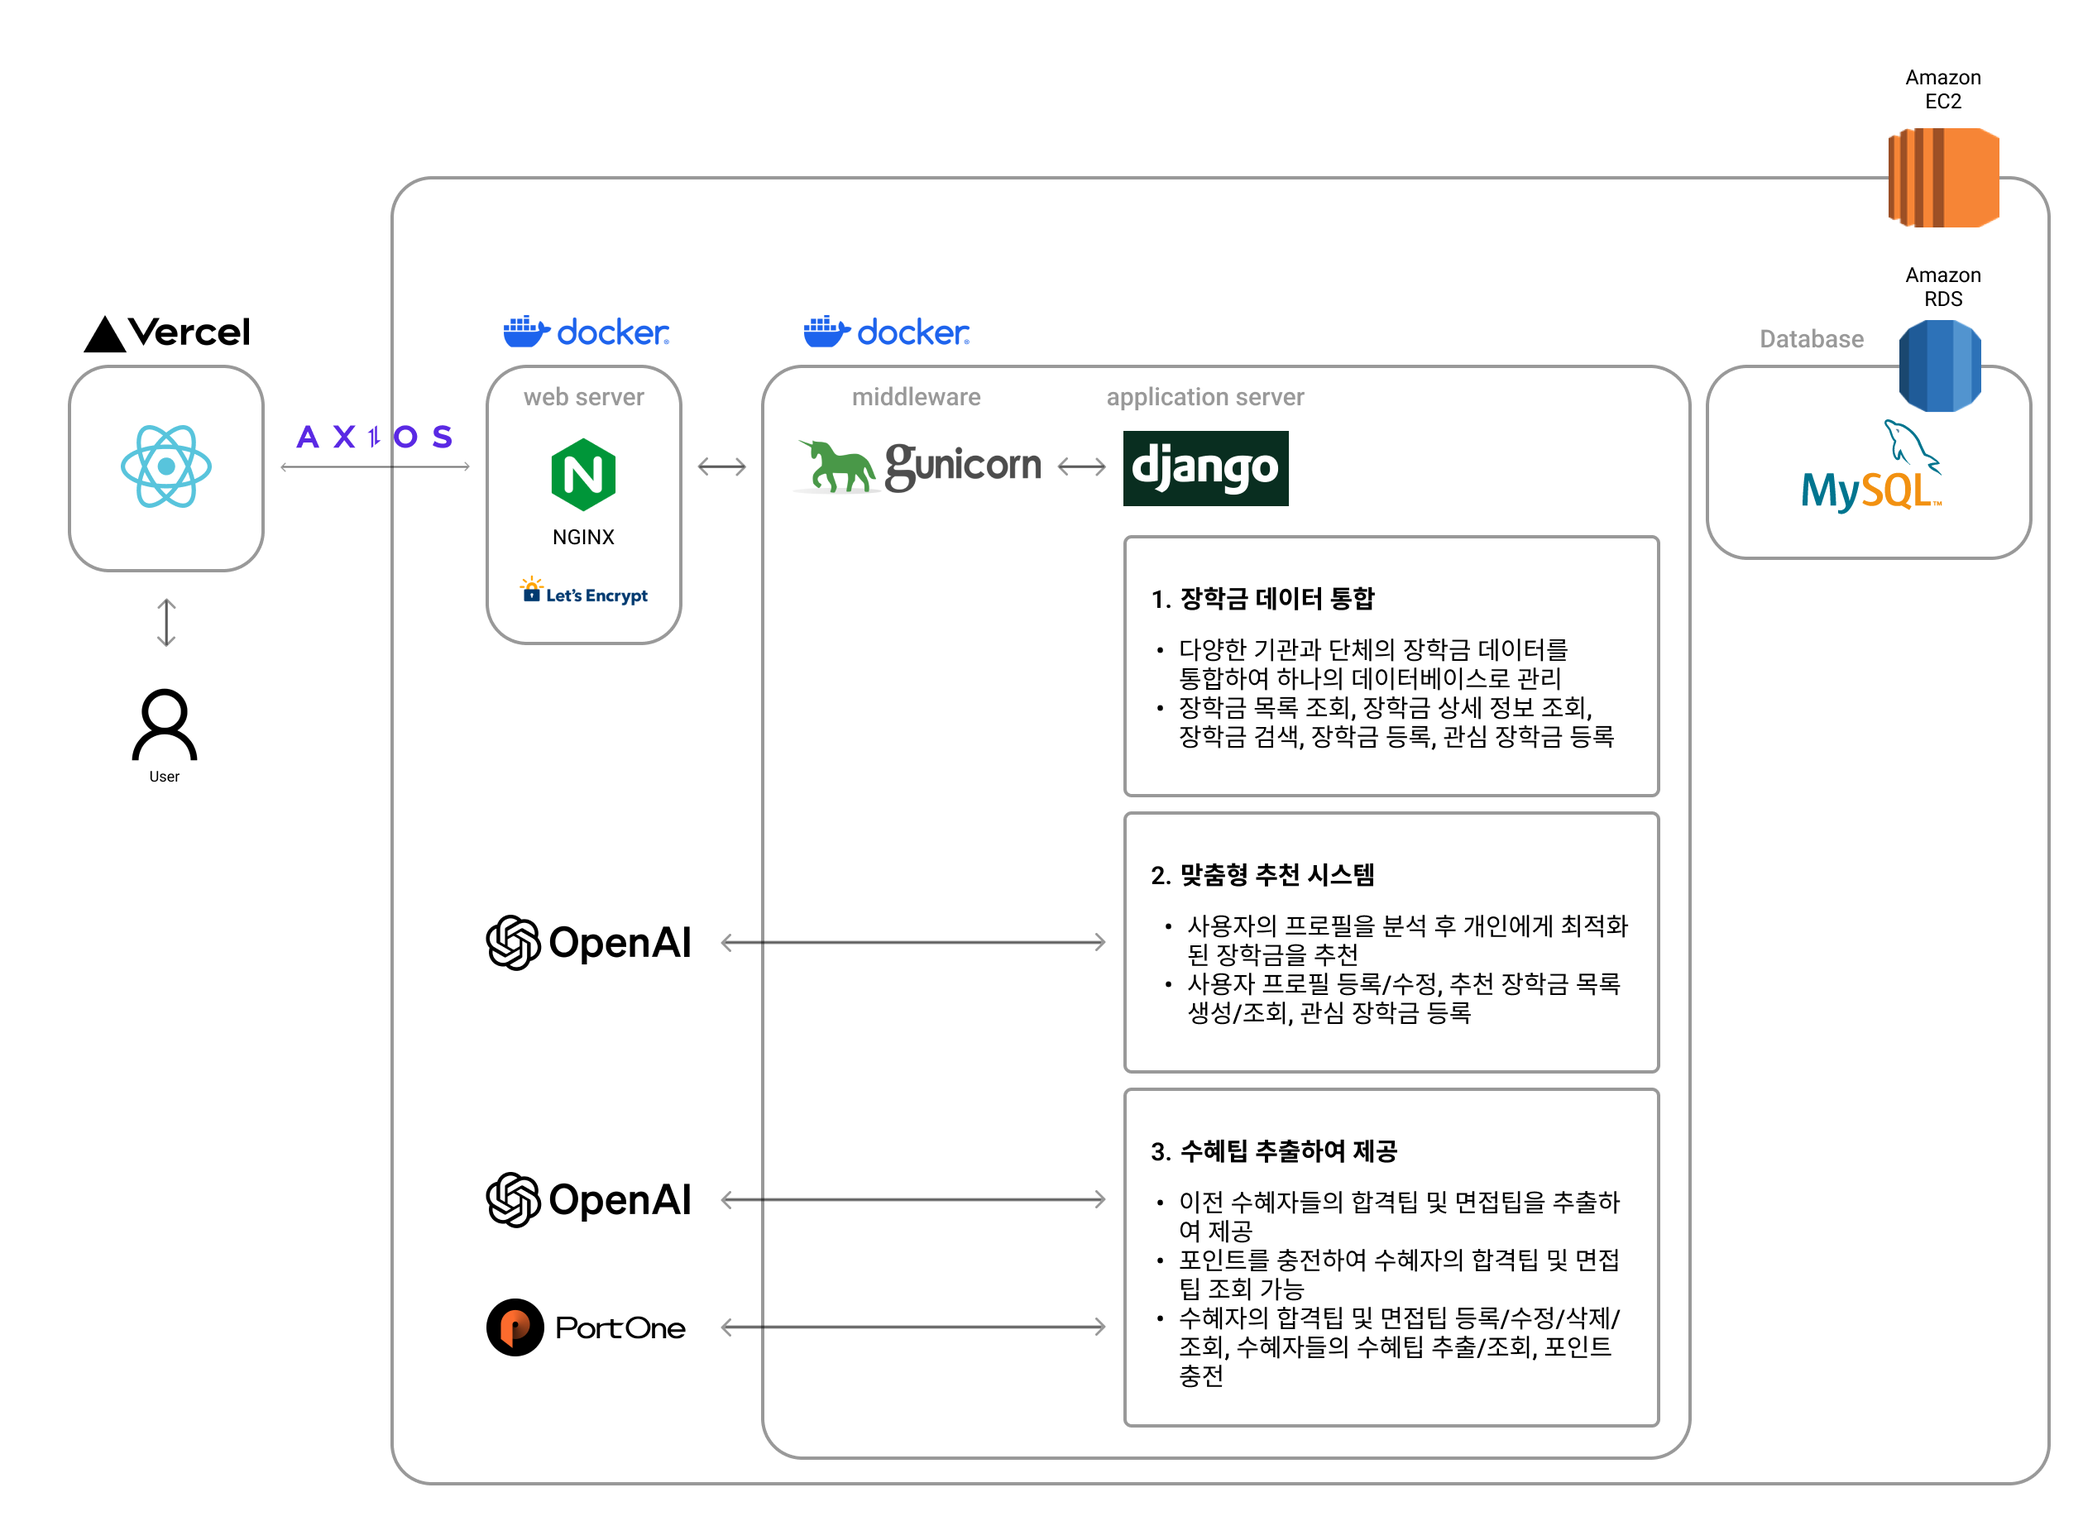
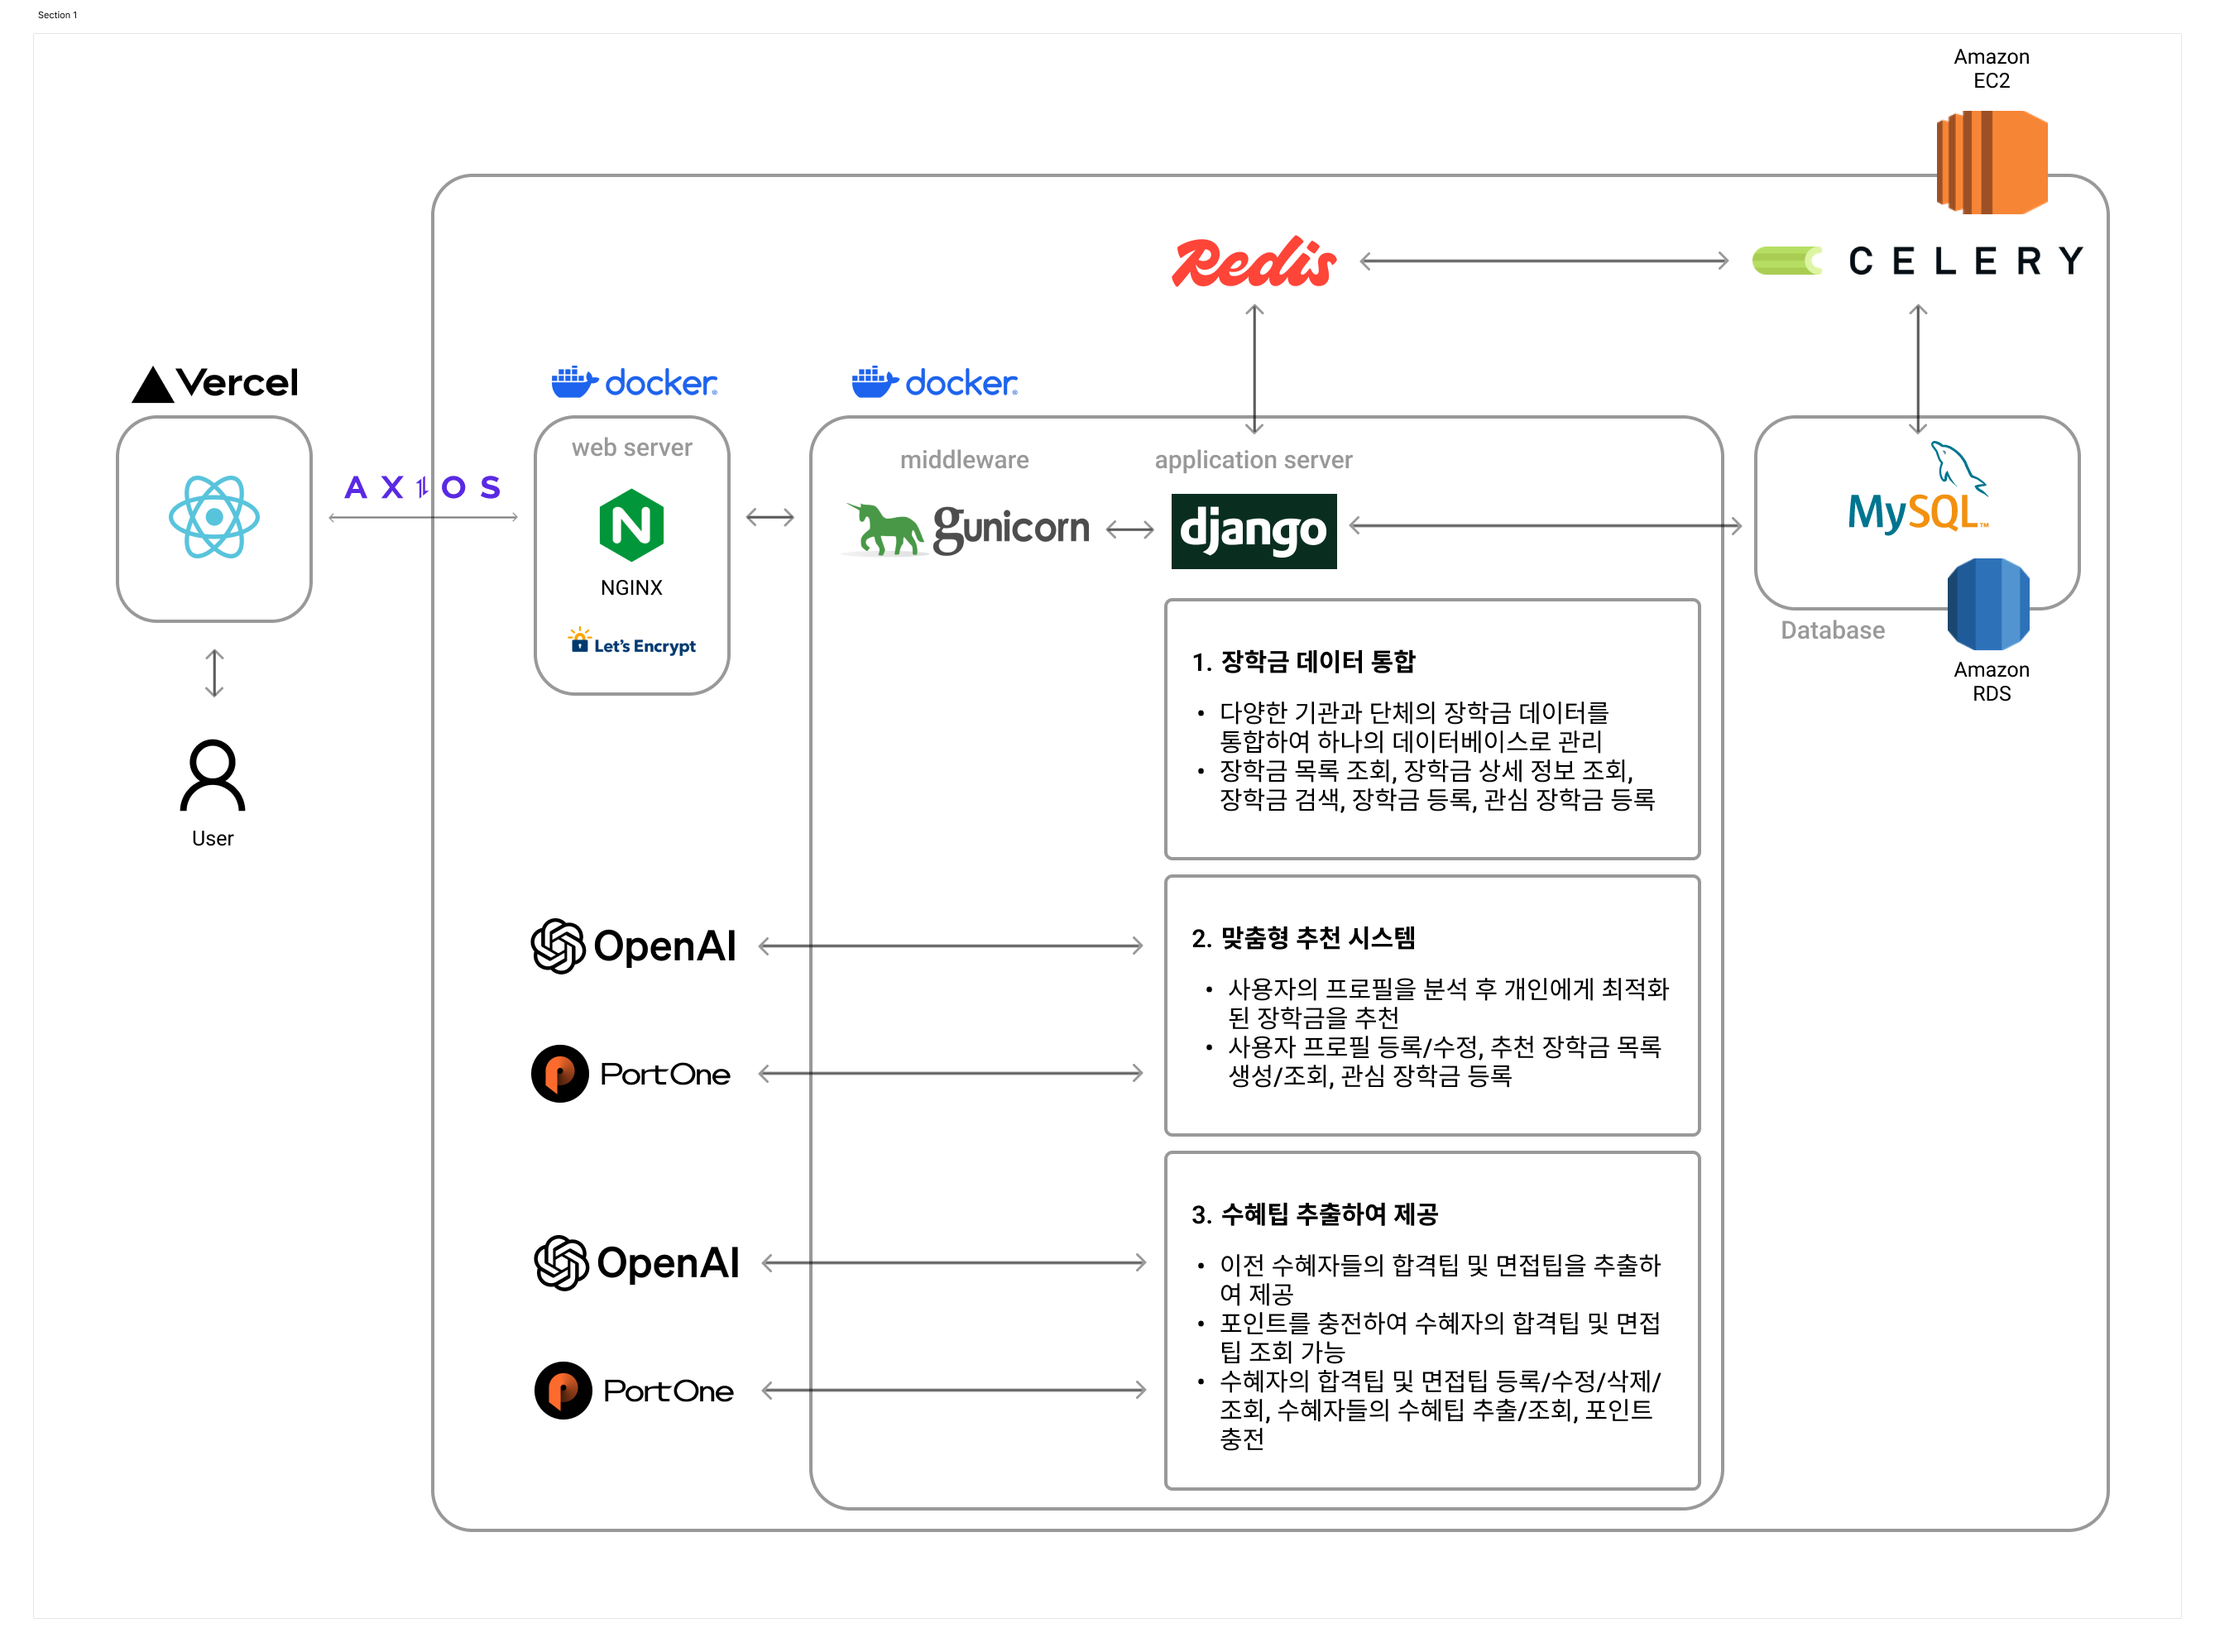
수정 v2

Changed region(s): [[0.031, 0.031, 0.9913, 0.9608], [0.062, 0.4339, 0.1239, 0.5269], [0.0929, 0.3719, 0.1239, 0.4029]]

diff --git a/README.md b/README.md
@@ -31,8 +31,8 @@
 | 항목             | 내용                                                                                                                                                                                                                                                                                                                                                                                                                                                                                                                                                                                                                                                                                                                                                                                                             |
 | :------------- | -------------------------------------------------------------------------------------------------------------------------------------------------------------------------------------------------------------------------------------------------------------------------------------------------------------------------------------------------------------------------------------------------------------------------------------------------------------------------------------------------------------------------------------------------------------------------------------------------------------------------------------------------------------------------------------------------------------------------------------------------------------------------------------------------------------- |
 | (1) 요구사항 정의    | **유저플로우**<br>![](./image/user_flow.png)<br>**ER다이어그램**<br>![](./image/4.png)<br>                                                                                                                                                                                                                                                                                                                                                                                                                                                                                                                                                                                                                                                                                                                               |
-| (2) 전체 시스템 구성  | ![](./image/system_architecture.png)<br>**1. 프론트엔드**<br>React로 개발된 프론트엔드를 Vercel로 배포하고, Axios를 통해 백엔드와 통신합니다. <br>**2. 백엔드**<br>Nginx, Gunicorn과 Django 애플리케이션을 Docker를 이용해 컨테이너화하여 독립적으로 관리합니다. 그리고 EC2 인스턴스를 이용해 Docker 기반의 백엔드를 배포합니다. <br>**3. 데이터베이스**<br>Amazon RDS에서 MySQL 데이터베이스를 운영하고 EC2와 RDS 연동을 통해 데이터베이스 접근과 관리를 효율적으로 수행합니다.<br>**4. 외부 서비스 연동**<br>OpenAI를 이용하여 맞춤형 장학금 추천 및 수혜 팁 추출 기능을 구현하고 PortOne을 이용하여 포인트를 충전하기 위한 결제 시스템을 구축합니다.                                                                                                                                                                                                                                                                                                                                                         |
+| (2) 전체 시스템 구성  | ![](./image/system_architecture.png)<br>**1. 프론트엔드**<br>React로 개발된 프론트엔드를 Vercel로 배포하고, Axios를 통해 백엔드와 통신합니다. <br>**2. 백엔드**<br>Nginx, Gunicorn과 Django 애플리케이션을 Docker를 이용해 컨테이너화하여 독립적으로 관리합니다. 그리고 EC2 인스턴스를 이용해 Docker 기반의 백엔드를 배포합니다. <br>**3. 데이터베이스**<br>Amazon RDS에서 MySQL 데이터베이스를 운영하고 EC2와 RDS 연동을 통해 데이터베이스 접근과 관리를 효율적으로 수행합니다.<br>**4. 외부 서비스 연동**<br>OpenAI를 이용하여 맞춤형 장학금 추천 및 수혜 팁 추출 기능을 구현하고 PortOne을 이용하여 포인트를 충전하기 위한 결제 시스템을 구축합니다. 또한, Redis와 Celery를 활용하여 장학금 마감 임박 알림 이메일 전송과 수혜 팁 주기적 업데이트와 같은 비동기 작업을 효율적으로 처리합니다.                                                                                                                                                                                                                                                                     |
 | (3) 진척도 및 검증내역 | **스타트 단계에서 검증한 내용**<br>1. 맞춤형 추천 시스템 기술 검증<br>- 사용자의 프로필(전공, 성적, 경제적 상황, 관심 분야, 대외활동 내역 등)과 관련된 장학금을 추천하는 시스템의 기술 검증을 진행하였습니다. <br>- 여러 방법을 시도한 결과, GPT 4o-mini를 활용하여 지역 조건을 먼저 선별한 후 다른 조건들을 필터링하는 방법이 가장 성능이 우수하여 해당 방법을 최종 선택하였습니다. <br>2. 수혜 팁 추출 기술 검증<br>- 수집한 이전 수혜자들의 합격팁과 면접팁을 바탕으로 중요한 내용을 추출하여 수혜팁을 제공하는 기능의 기술검증을 진행하였습니다. <br>- 임의로 입력한 수혜자들의 합격팁과 면접팁을 바탕으로 중요한 내용을 추출하여 정리할 수 있도록 GPT 프롬프트를 작성하였습니다. <br><br>**현재 진척도 및 근거 내용**<br>1. 프론트엔드<br>- UI/UX 디자인을 바탕으로 개발 진행 중 (현재 약 70% 완료)<br>- 백엔드와 연동 작업 진행 중 (현재 약 50% 완료)<br>- 프론트엔드 서버 배포환경 세팅 완료 (현재 약 100% 완료)<br>2. 백엔드<br>- API 명세서와 ER다이어그램을 바탕으로 API 개발 진행 중 (현재 약 70% 완료)<br>- 백엔드 서버 배포환경 세팅 진행 중 (현재 약 70% 완료)<br>3. AI<br>- 스타트 단계에서 진행했던 기술 검증을 바탕으로 맞춤형 추천 시스템과 수혜 팁 추출 기능 구축 완료 (현재 약 100% 완료)<br>- 백엔드와의 연동 작업 진행 중(현재 약 60% 완료) |
-| (4) 기타         | *기타 사항을 기술*                                                                                                                                                                                                                                                                                                                                                                                                                                                                                                                                                                                                                                                                                                                                                                                                    |
+| (4) 기타         | **사용자 인터페이스 디자인**<br>https://www.youtube.com/watch?v=7xQanzjT65Y                                                                                                                                                                                                                                                                                                                                                                                                                                                                                                                                                                                                                                                                                                                                               |
 
 <br>
